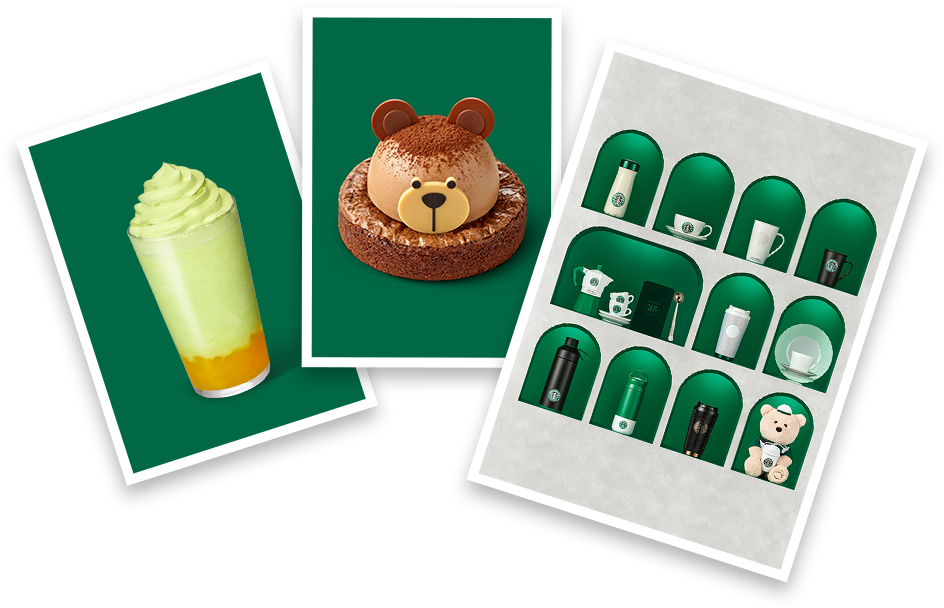
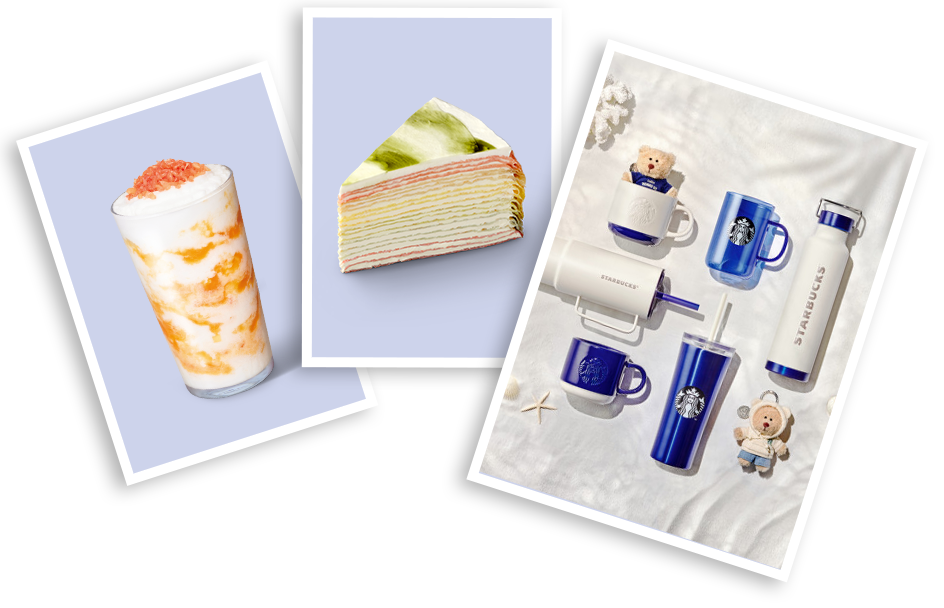
20240811

diff --git a/css/main.css b/css/main.css
@@ -376,22 +376,22 @@ header .badges .material-icons {
     position: absolute;
     top: 0;
     left: 22%;
-    width: 15%;
+    width: 17%;
     z-index: 9;
 }
 
 .visual .cup02 {
     position: absolute;
     top: 0;
-    left: 34%;
-    width: 15%;
+    left: 35%;
+    width: 17%;
     z-index: 8;
 }
 
 .visual .cup03 {
     position: absolute;
     top: 0;
-    left: 45%;
+    left: 49%;
     width: 17%;
     z-index: 8;
 }
@@ -399,10 +399,9 @@ header .badges .material-icons {
 .visual .cup04 {
     position: absolute;
     top: 0;
-    left: 50%;
-    width: 18%;
+    left: 63%;
+    width: 23%;
     z-index: 8;
-    transform: translate(50%, 45%);
 }
 
 .visual .fade-in {
@@ -805,7 +804,7 @@ header .badges .material-icons {
 
 /* favorite */
 .favorite {
-    background: url(../images/favorite_bg.jpg) no-repeat center / cover;
+    background: url(../images/favorite_bg.png) no-repeat center / cover;
     background-attachment: fixed;
     position: relative;
     overflow: hidden;
@@ -843,7 +842,7 @@ header .badges .material-icons {
     top: 50%;
     right: -15%;
     transform: translateY(-50%);
-    width: 80%;
+    width: 60%;
 }
 
 

diff --git a/index.html b/index.html
@@ -433,8 +433,8 @@
     </header>
 
     <section class="visual">
-        <img src="./images/25th_visual_bg.png" class="visual-bg" alt="visual">
-        <img src="./images/25th_visual_bg_m.png" class="visual-bg_m" alt="visual">
+        <img src="./images/2024_august_bg.png" class="visual-bg" alt="visual">
+        <img src="./images/2024_august_bg_m.jpg" class="visual-bg_m" alt="visual">
 
         <div class="inner">
             <div class="title fade-in">
